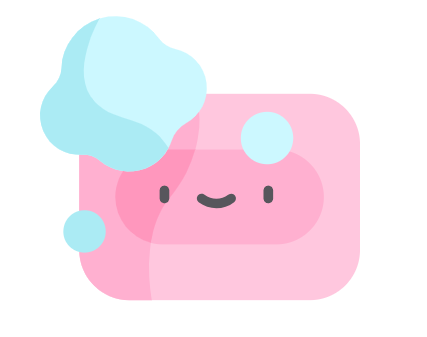
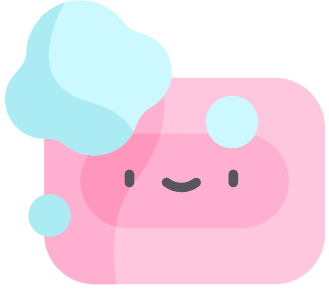
donate page

diff --git a/client/src/components/pages/Donate.js b/client/src/components/pages/Donate.js
@@ -1,6 +1,7 @@
 import React, { Component } from "react";
 import '../../assets/css/font-awesome.min.css';
 import '../../assets/css/main.css';
+import '../../assets/css/donation.css';
 import pic07 from '../../images/pic07.jpg';
 import Header from '../../components/Header';
 import Footer from '../../components/Footer';
@@ -19,58 +20,62 @@ class Donate extends Component {
             <div>
                 <Header />
                 <div id="main" className="container">
-                    <header className="major">
-                        <h2>No Sidebar</h2>
-                        <p>Faucibus neque adipiscing mi lorem semper blandit sed consequat</p>
-                    </header>
-
-
                     <section id="content">
                         <a href="#" className="image fit"><img src={pic07} alt="" /></a>
-                        <h3>Dolore Amet Consequat</h3>
-                        <p>Aliquam massa urna, imperdiet sit amet mi non, bibendum euismod est. Curabitur mi justo, tincidunt vel eros ullamcorper, porta cursus justo. Cras vel neque eros. Vestibulum diam quam, mollis at magna consectetur non, malesuada quis augue. Morbi tincidunt pretium interdum est. Curabitur mi justo, tincidunt vel eros ullamcorper, porta cursus justo. Cras vel neque eros. Vestibulum diam.</p>
-                        <p>Vestibulum diam quam, mollis at consectetur non, malesuada quis augue. Morbi tincidunt pretium interdum. Morbi mattis elementum orci, nec dictum porta cursus justo. Quisque ultricies lorem in ligula condimentum, et egestas turpis sagittis. Cras ac nunc urna. Nullam eget lobortis purus. Phasellus vitae tortor non est placerat tristique.</p>
-                        <h3>How Your Donations Will Help East High Students</h3>
+                        <h3>Every Donation Counts!</h3>
+                        <p>Hello, thank you for taking an interest in helping to support to students of East High School.Approximately 64% of the student body 
+                            is living below the poverty line (including 85 homeless students). The East High Student and Family Support Initiative was created 
+                            in 2016 to assist these students. We evaluate and fulfill the unique needs of each student, to assure that they have their basic 
+                            needs met. This includes some dental and vision assistance. At East we feel that if the  is not worrying about pain, food, clothing,
+                            and cleanliness, they will be better able to thrive in school and in life.</p>
+                        <p>Every donation, no matter how big or small, will help improve the lives of hundreds of students!</p>
+                        <p>All donations will be go through the Salt Lake Education Foundation! Please Click on the Button below to get started!</p>
+                        <a href="https://give.saltlakeeducationfoundation.org/easthighalumni/digital-inclusion-initiative-donation" 
+                            className="button primary small fit">Donate Now!
+                        </a>
+                        
+                        <br /><br />
+                        <h3>How Your Donations Will Help Support East High Students</h3>
                         <div className="col-12 col-12-medium">
-                        <br/><br/>
+                            <br /><br />
                             <ul className="major-icons row">
                                 <li className="col-3 col-6-small col-12-xsmall">
-                                    <span className="icon alt major"><img src={snack} alt="" /></span>
+                                    <span className="icon alt major"><img src={snack} id="snack" alt="" /></span>
                                     <p>$1.00</p>
                                     <p>a healthy afterschool snack (we serve 100 per day)</p>
                                 </li>
                                 <li className="col-3 col-6-small col-12-xsmall">
-                                    <span className="icon alt major"><img src={soap} alt="" /></span>
+                                    <span className="icon alt major"><img src={soap} id="soap" alt="" /></span>
                                     <p>$5.00</p>
                                     <p>a month’s hygiene for a family</p>
                                 </li>
                                 <li className="col-3 col-6-small col-12-xsmall">
-                                    <span className="icon alt major"><img src={schoolSupplies} alt="" /></span>
+                                    <span className="icon alt major"><img src={schoolSupplies} id="schoolSupplies" alt="" /></span>
                                     <p>$10.00</p>
                                     <p>school supplies for a semester</p>
                                 </li>
                                 <li className="col-3 col-6-small col-12-xsmall">
-                                    <span className="icon alt major"><img src={socks} alt="" /></span>
+                                    <span className="icon alt major"><img src={socks} id="socks" alt="" /></span>
                                     <p>$25.00</p>
                                     <p>20 pair of new men’s socks</p>
                                 </li>
                                 <li className="col-3 col-6-small col-12-xsmall">
-                                    <span className="icon alt major"><img src={towels} alt="" /></span>
+                                    <span className="icon alt major"><img src={towels} id="towels" alt="" /></span>
                                     <p>$50.00</p>
                                     <p>towels for the Washrooms for a semester</p>
                                 </li>
                                 <li className="col-3 col-6-small col-12-xsmall">
-                                    <span className="icon alt major"><img src={glasses} alt="" /></span>
+                                    <span className="icon alt major"><img src={glasses} id="glasses" alt="" /></span>
                                     <p>$50.00</p>
                                     <p>replacement frames for a student’s glasses</p>
                                 </li>
                                 <li className="col-3 col-6-small col-12-xsmall">
-                                    <span className="icon alt major"><img src={protein} alt="" /></span>
+                                    <span className="icon alt major"><img src={protein} id="protein" alt="" /></span>
                                     <p>$100.00</p>
                                     <p>protein for the entire Stash for a week</p>
                                 </li>
                                 <li className="col-3 col-6-small col-12-xsmall">
-                                    <span className="icon alt major"><img src={laptop} alt="" /></span>
+                                    <span className="icon alt major"><img src={laptop} id="laptop" alt="" /></span>
                                     <p>$150.00</p>
                                     <p>a NEW laptop, loaded with software</p>
                                 </li>

diff --git a/client/public/index.html b/client/public/index.html
@@ -5,20 +5,8 @@
 		<meta charset="utf-8" />
 		<meta name="viewport" content="width=device-width, initial-scale=1, user-scalable=no" />
 		<link rel="stylesheet" href="assets/css/main.css" />
-    <!--
-      manifest.json provides metadata used when your web app is added to the
-      homescreen on Android. See https://developers.google.com/web/fundamentals/engage-and-retain/web-app-manifest/
-    -->
+    <link rel="stylesheet" href="assets/css/donation.css">
     <link rel="manifest" href="%PUBLIC_URL%/manifest.json">
-    <!--
-      Notice the use of %PUBLIC_URL% in the tags above.
-      It will be replaced with the URL of the `public` folder during the build.
-      Only files inside the `public` folder can be referenced from the HTML.
-
-      Unlike "/favicon.ico" or "favicon.ico", "%PUBLIC_URL%/favicon.ico" will
-      work correctly both with client-side routing and a non-root public URL.
-      Learn how to configure a non-root public URL by running `npm run build`.
-    -->
     <title>React App</title>
   </head>
   <body class="is pre-loaded">

diff --git a/client/public/assets/css/donation.css b/client/public/assets/css/donation.css
@@ -1,0 +1,64 @@
+#snack {
+    height: 150px;
+    width: auto;    
+    position: absolute;
+    left: 10px;
+    top: 25px;
+}
+
+#soap {
+    height: 100px;
+    width: auto;
+    position: absolute;
+    left: 33px;
+    top: 38px;
+}
+
+#schoolSupplies {
+    height: 100px;
+    width: auto;
+    position: absolute;
+    left: 40px;
+    top: 45px;
+}
+
+#socks {
+    height: 170px;
+    width: auto;
+    position: absolute;
+    left: 17px;
+    top: 12px;
+}
+
+#towels {
+    height: 100px;
+    width: auto;
+    position: absolute;
+    left: 33px;
+    bottom: 42px;
+}
+
+#glasses {
+    height: 105px;
+    width: auto;
+    position: absolute;
+    left: 10px;
+    top: 45px;
+}
+
+#protein {
+    height: 150px;
+    width: auto;
+    position: absolute;
+    left: 16px;
+    top: 27px;
+}
+
+#laptop{
+    height: 90px;
+    width: auto;
+    position: absolute;
+    left: 30px;
+    top: 45px;
+}
+

diff --git a/client/src/components/pages/Volunteer.js b/client/src/components/pages/Volunteer.js
@@ -31,7 +31,7 @@ class Volunteer extends Component {
     }
 
     loadAvailableTimeSlots = () => {
-        API.getReport({id: this.state.signupid})
+        API.getReport({})
             .then(res => {
                 this.setState({ availableTimeSlots: res.data.data.signup, signupid: res.data.data.signup.signupid });
                 console.log(this.state.signupid);

diff --git a/client/src/assets/css/donation.css b/client/src/assets/css/donation.css
@@ -1,0 +1,13 @@
+.snack {
+    height: 175px;
+    width: auto;
+}
+
+.soap {
+
+}
+
+.protein {
+
+}
+
